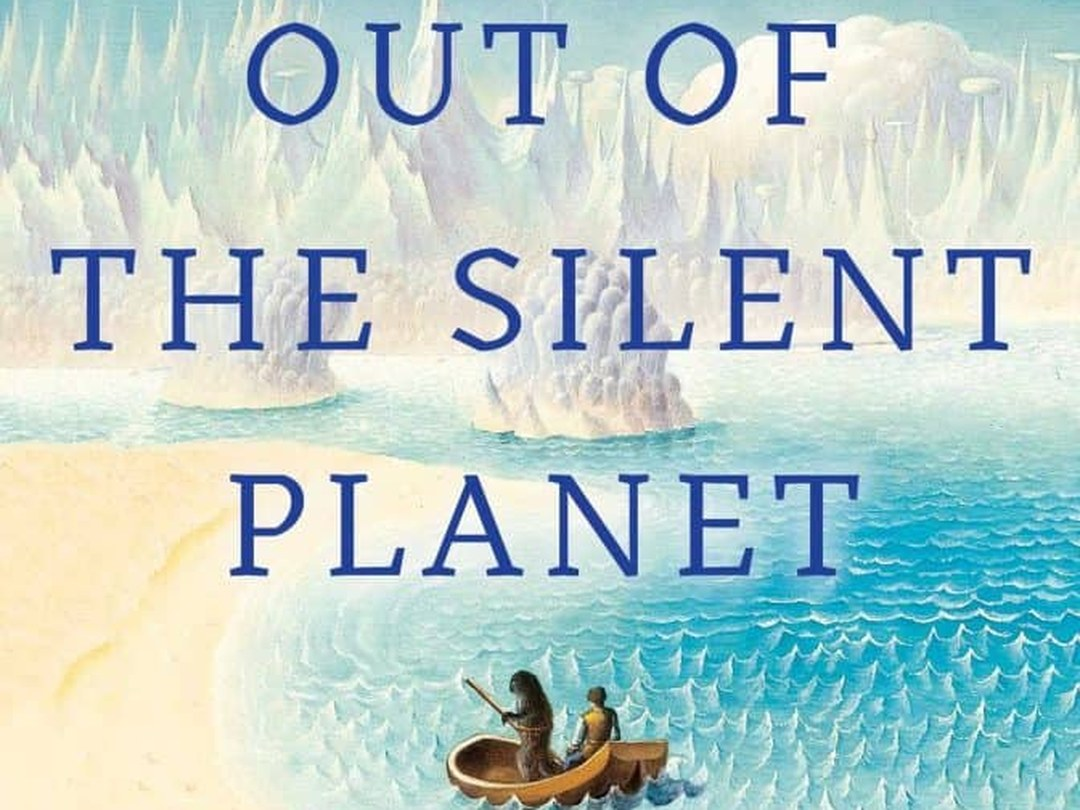
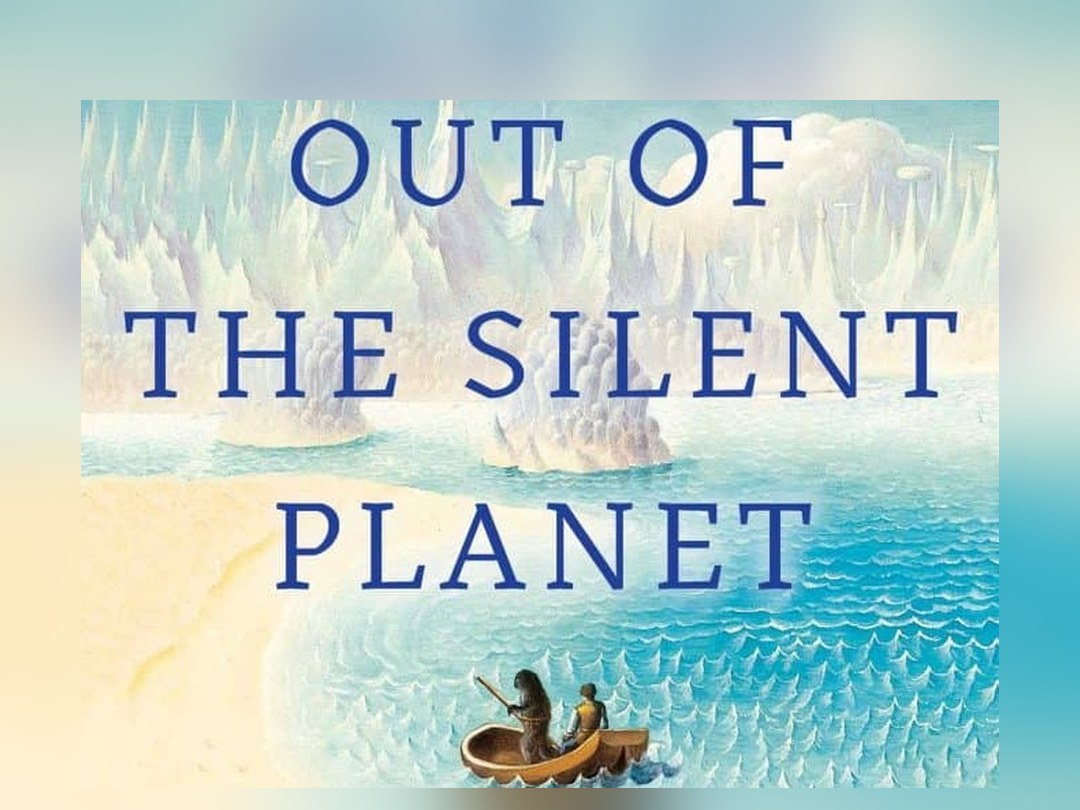
Vertical videos play portrait; Lewis + Heaven thumbnails re-cropped
- videoFacade now marks vertical videos (Shorts URLs + 11 IDs verified
  vertical with yt-dlp) with video-facade--portrait; the click handler
  gives the iframe a video-frame--portrait class, so the player is a
  centred 9:16 box (max 25rem) instead of falling back to 300x150.
  The old .video-facade + iframe selector never matched after
  replaceWith, which was the tiny-player bug. Watch-row portrait
  cards stay narrow (11rem).
- quotes-from-c-s-lewis.jpg recomposed (artwork scaled 0.85 on a
  blurred fill) so OUT OF / THE SILENT / PLANET all survive the
  carousel's 16:9 centre crop.
- heaven-is-possible-because-of-jesus.jpg re-cropped from _PUk447Xda0
  frame at 7s: full face, mouth closed, eyes open, 4:3 1080x810 q88.
- style.css?v=11, main.js?v=9.

diff --git a/.eleventy.js b/.eleventy.js
@@ -18,6 +18,28 @@ function youtubeId(url) {
   return m ? m[1] : null;
 }
 
+// Video IDs verified vertical (height > width) with yt-dlp, 23 Nov 2026.
+// A /shorts/ link is detected from the URL automatically; a vertical video
+// linked with a watch?v= URL (e.g. LOAuNNf0eVs) needs its ID here, or the
+// player renders in a 16:9 box and the video plays as a narrow strip.
+const VERTICAL_VIDEOS = new Set([
+  "2IbJ8CwQSQI",
+  "7kKnTs28fYo",
+  "LOAuNNf0eVs",
+  "RFBk-OhhmWk",
+  "W54dscrSuH4",
+  "YefAbng2k_I",
+  "_PUk447Xda0",
+  "n60kziisn6Y",
+  "sjVuhFmwjCs",
+  "wePjZMr6beE",
+  "zvtpeDCwBeo",
+]);
+
+function isVerticalVideo(href, id) {
+  return /\/shorts\//.test(href) || VERTICAL_VIDEOS.has(id);
+}
+
 module.exports = function (eleventyConfig) {
   // RFC3339 dates for the feed (toISOString is already RFC3339).
   eleventyConfig.addFilter("dateToRfc3339", (date) =>
@@ -124,15 +146,15 @@ module.exports = function (eleventyConfig) {
     if (!this.page.outputPath || !this.page.outputPath.endsWith(".html")) {
       return content;
     }
-    const facade = (id) =>
-      `<div class="video-facade"><button type="button" class="video-facade__button" data-video-id="${id}" aria-label="Play video on YouTube"><img class="video-facade__thumb" src="https://i.ytimg.com/vi/${id}/hqdefault.jpg" alt="" loading="lazy" width="480" height="360"><span class="video-facade__play" aria-hidden="true">&#9654;</span></button></div>`;
+    const facade = (id, vertical) =>
+      `<div class="video-facade${vertical ? " video-facade--portrait" : ""}"><button type="button" class="video-facade__button" data-video-id="${id}" aria-label="Play video on YouTube"><img class="video-facade__thumb" src="https://i.ytimg.com/vi/${id}/hqdefault.jpg" alt="" loading="lazy" width="480" height="360"><span class="video-facade__play" aria-hidden="true">&#9654;</span></button></div>`;
 
     // <a href="...youtube...">...</a> links
     content = content.replace(
       /<a\b[^>]*href="([^"]*(?:youtube\.com|youtu\.be)[^"]*)"[^>]*>.*?<\/a>/gs,
       (match, href) => {
         const id = youtubeId(href);
-        return id ? facade(id) : match;
+        return id ? facade(id, isVerticalVideo(href, id)) : match;
       }
     );
     // Raw <iframe> embeds pointing at YouTube (none in the archive today,
@@ -141,7 +163,7 @@ module.exports = function (eleventyConfig) {
       /<iframe\b[^>]*src="([^"]*(?:youtube\.com|youtu\.be)[^"]*)"[^>]*>(?:<\/iframe>)?/g,
       (match, src) => {
         const id = youtubeId(src);
-        return id ? facade(id) : match;
+        return id ? facade(id, isVerticalVideo(src, id)) : match;
       }
     );
     return content;

diff --git a/css/style.css b/css/style.css
@@ -236,6 +236,16 @@ button[type="submit"] {
 /* Tap-to-load video facade: 16:9 box, thumbnail + play button, no iframe
    or third-party script until the reader taps. */
 .video-facade { position: relative; aspect-ratio: 16 / 9; background: #111; margin: 1rem 0; }
+/* Vertical videos (Shorts and vertical watch links) get a portrait box,
+   centred, so the player is full-size instead of a narrow strip in a
+   16:9 frame. The thumbnail is object-fit: cover, so the side pillars
+   of the 4:3 YouTube thumbnail are cropped away. */
+.video-facade--portrait { aspect-ratio: 9 / 16; max-width: 25rem; margin-left: auto; margin-right: auto; }
+/* The click handler in main.js replaces the facade div with a bare
+   iframe, so the player is sized by a class set there — the old
+   ".video-facade + iframe" selector never matched anything. */
+.video-frame { display: block; width: 100%; aspect-ratio: 16 / 9; border: 0; }
+.video-frame--portrait { aspect-ratio: 9 / 16; max-width: 25rem; margin: 1rem auto; }
 .video-facade__button { display: block; width: 100%; height: 100%; padding: 0; border: 0; background: none; cursor: pointer; }
 .video-facade__thumb { width: 100%; height: 100%; object-fit: cover; }
 .video-facade__play {
@@ -243,7 +253,10 @@ button[type="submit"] {
   width: 4rem; height: 2.75rem; line-height: 2.75rem; text-align: center;
   background: rgba(0, 0, 0, 0.75); color: #fff; border-radius: 0.5rem; font-size: 1.25rem;
 }
-.video-facade iframe, .video-facade + iframe { width: 100%; aspect-ratio: 16 / 9; border: 0; }
+/* Portrait videos in the Watch row stay narrow and centred, so a tall
+   card does not dwarf the row. */
+.watch-card .video-facade--portrait { max-width: 11rem; }
+.watch-card .video-frame--portrait { max-width: 11rem; margin: 0 auto; }
 /* Watch row: a horizontal scroll-snap row of tap-to-load video cards.
    The YouTube links in index.njk are turned into facades by the
    videoFacade transform, so no iframe or third-party script loads

diff --git a/js/main.js b/js/main.js
@@ -57,6 +57,9 @@ document.addEventListener("click", function (e) {
   var holder = button.closest(".video-facade");
   if (!holder) return;
   var frame = document.createElement("iframe");
+  frame.className = holder.classList.contains("video-facade--portrait")
+    ? "video-frame video-frame--portrait"
+    : "video-frame";
   frame.src = "https://www.youtube-nocookie.com/embed/" + id + "?autoplay=1&rel=0";
   frame.title = "YouTube video";
   frame.allow = "accelerometer; autoplay; clipboard-write; encrypted-media; gyroscope; picture-in-picture; web-share";
